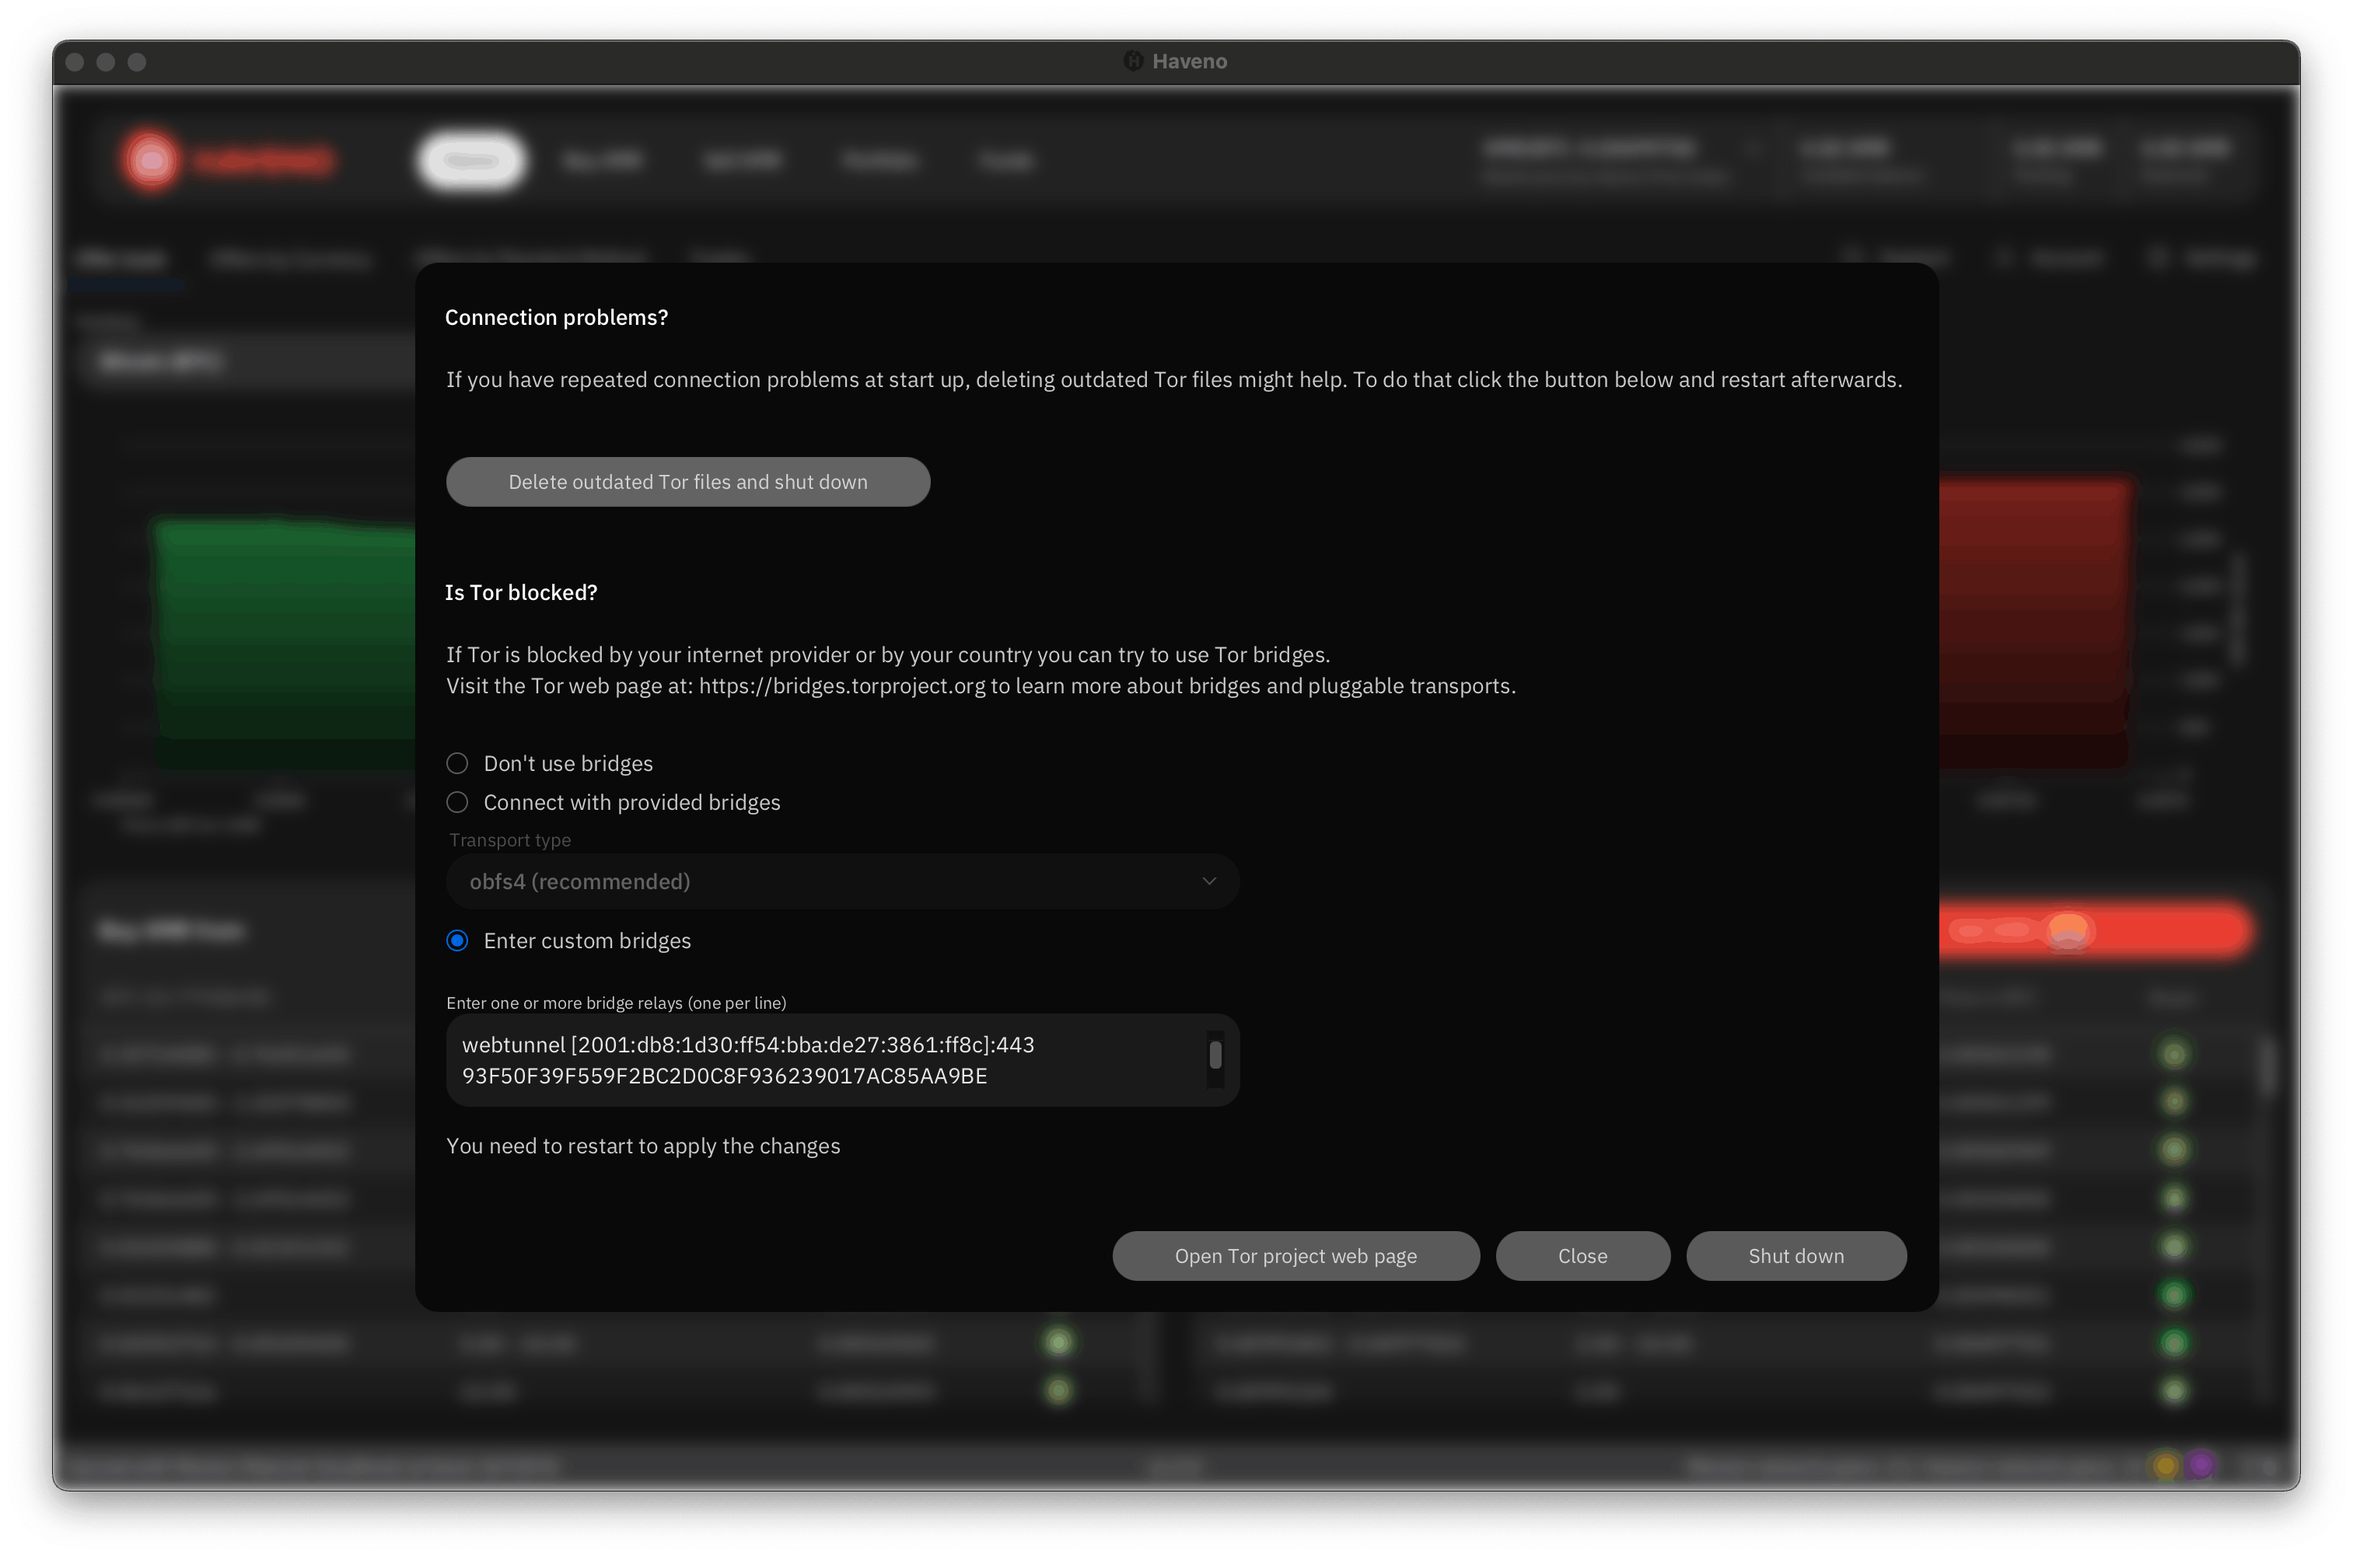
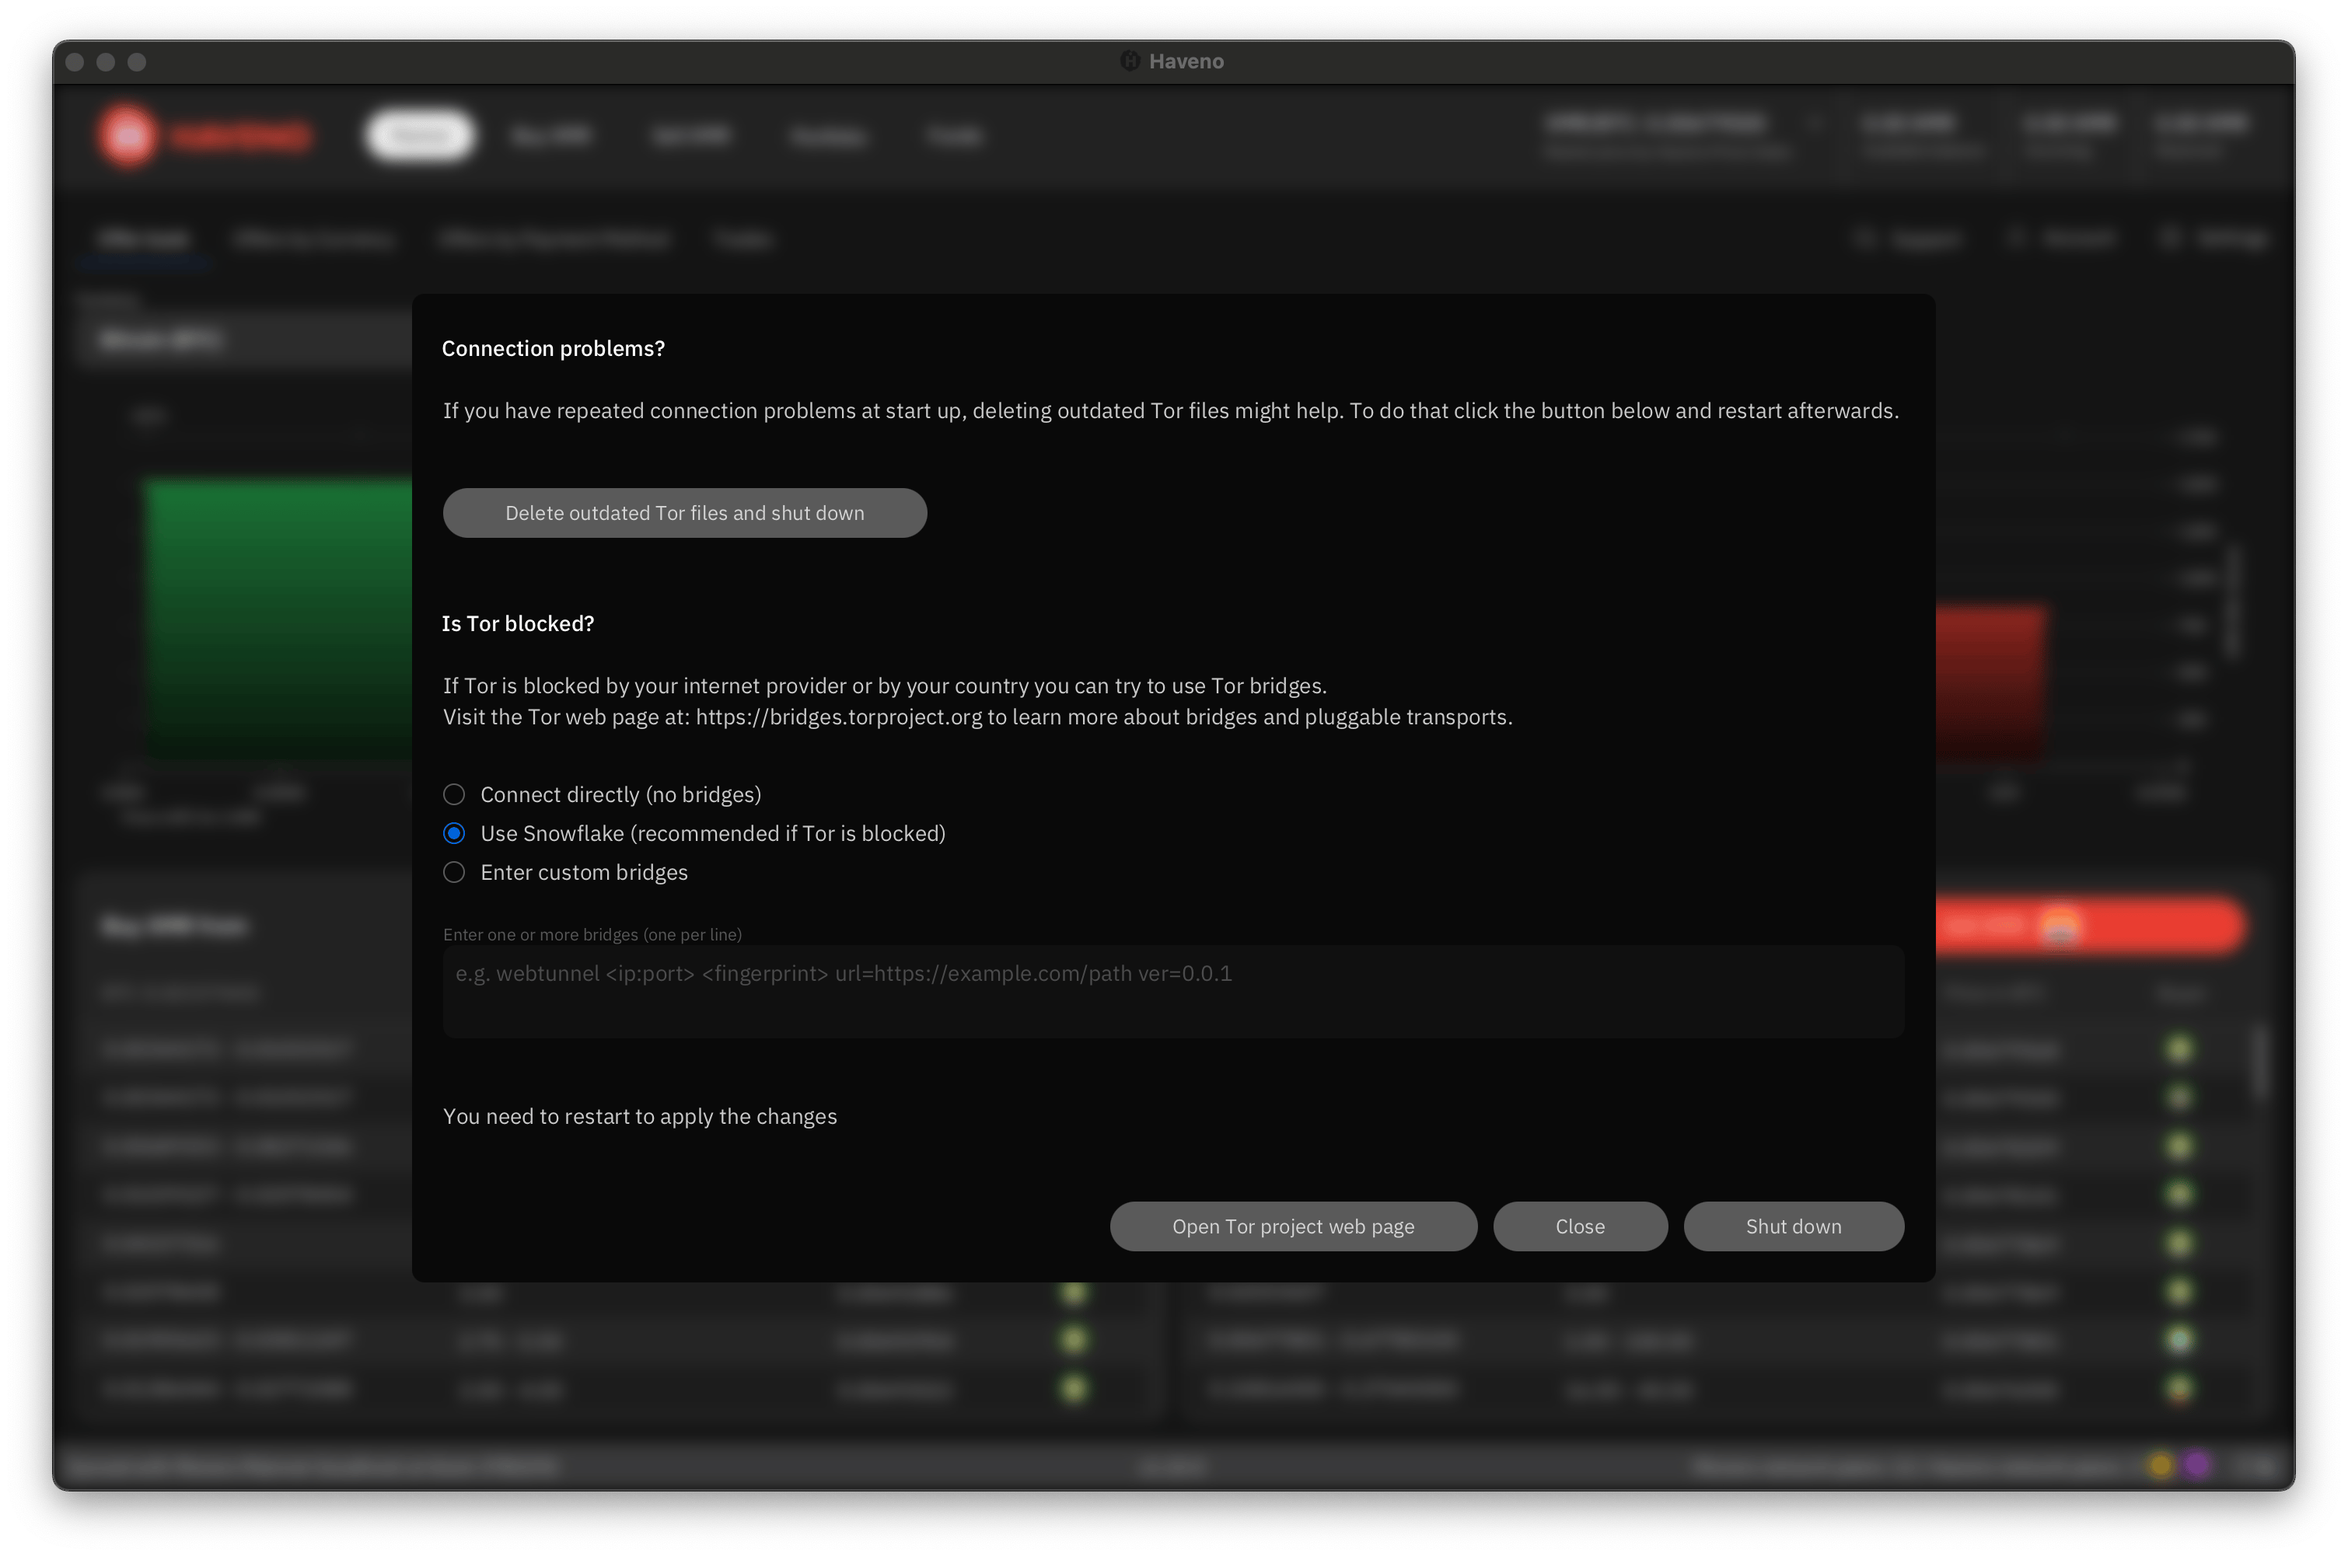
docs: generalize WebTunnels page to bridges

diff --git a/docs/users/connectivity/bridges.md b/docs/users/connectivity/bridges.md
@@ -1,0 +1,30 @@
+# Bridges
+
+Bridges are Tor relays that help Haveno connect when Tor is blocked by your internet provider or country.
+
+Haveno includes Snowflake, which works without any setup. You can also enter custom bridges, such as WebTunnels, which disguise Tor traffic as standard HTTPS web traffic.
+
+![Light mode](/resources/img/connectivity/bridges_light.png#only-light)
+![Dark mode](/resources/img/connectivity/bridges_dark.png#only-dark)
+
+## Use Snowflake
+
+1. Open the network settings menu from **Settings > Network Info > Open Tor settings** or click the onion icon in the bottom right.
+2. Select **Use Snowflake**.
+3. Restart Haveno for the changes to take effect.
+
+## Use custom bridges
+
+To use custom bridges, you must first obtain bridge addresses from the Tor Project.
+
+1. Visit [bridges.torproject.org](https://bridges.torproject.org).
+2. Click 'Get Bridges'.
+3. Select a bridge type, such as 'webtunnel', from the drop down selection.
+4. Complete the CAPTCHA if necessary to reveal your bridge addresses.
+5. Copy the provided addresses (it will look like webtunnel 10.0.0.1:443...)
+
+Then configure Haveno to use them:
+
+1. Open the network settings menu from **Settings > Network Info > Open Tor settings** or click the onion icon in the bottom right.
+2. Select **Enter custom bridges** and paste the addresses, one per line.
+3. Restart Haveno for the changes to take effect.

diff --git a/docs/users/connectivity/basic-tor.md b/docs/users/connectivity/basic-tor.md
@@ -45,7 +45,7 @@ If your network only allows outbound traffic through a proxy, route the included
 Use `HTTPSProxy host:port` instead for an HTTPS (CONNECT) proxy, common on corporate networks. Add credentials if required, e.g. `Socks5ProxyUsername user, Socks5ProxyPassword pass` or `HTTPSProxyAuthenticator user:pass`.
 
 !!! Info "Note"
-    A proxy helps Tor reach the network through a restrictive firewall. If Tor itself is blocked, use [WebTunnels](./webtunnels.md) or another bridge instead.
+    A proxy helps Tor reach the network through a restrictive firewall. If Tor itself is blocked, use [bridges](./bridges.md) instead.
 
 ## Enable Tor logging
 
